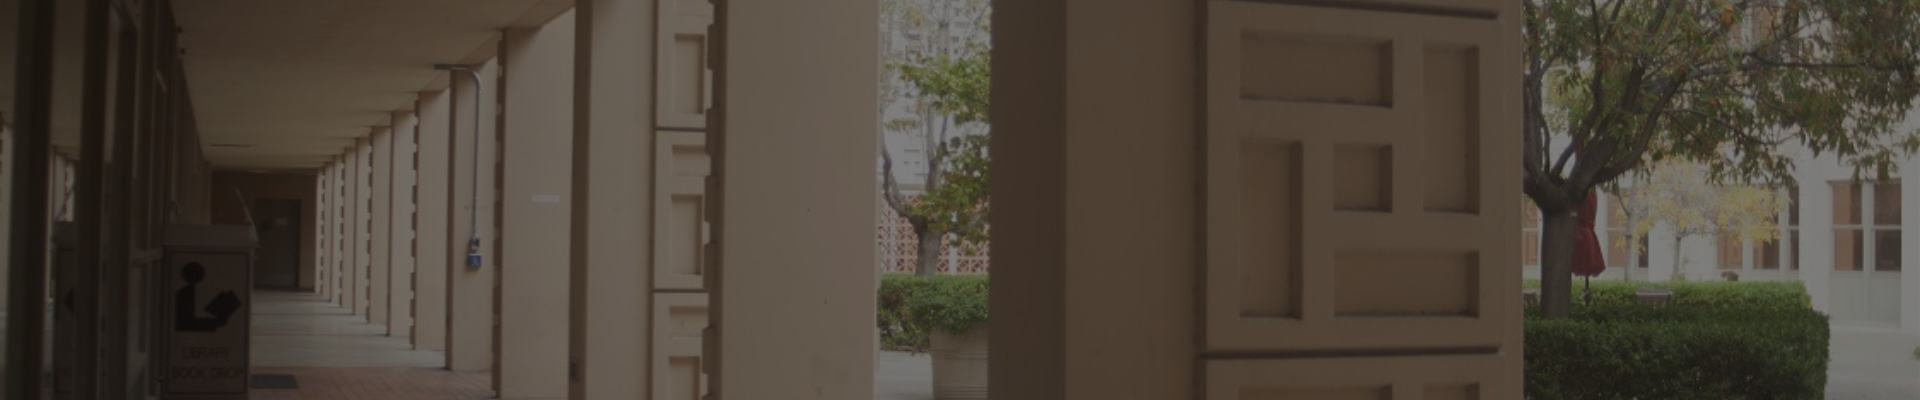
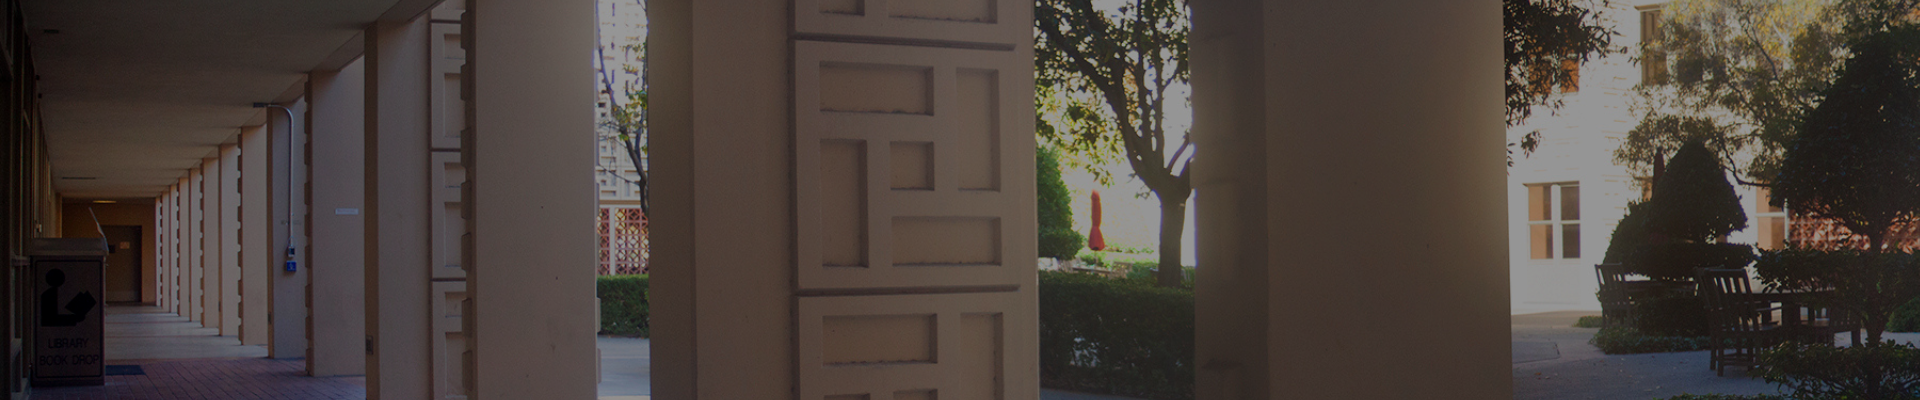
LANEWEB-10828: new hero image ... again

diff --git a/src/main/css/search-form.css b/src/main/css/search-form.css
@@ -1,10 +1,10 @@
 .hero-unit {
 	color: white;
 	background-color:  #8c1515;
-	background-image: url('../images/hero-bkgrd3.png'); 
+	background-image: url('../images/hero-bkgrd.png'); 
 	background-repeat: no-repeat;
 	background-size: cover;
-	background-position: center 70%;
+	background-position: center bottom;
 	width: 100%;
 	padding-top: 67px;
 	min-height: 204px;
@@ -238,8 +238,8 @@
 
 @media ( max-width : 812px) {
 	.hero-unit-front-page, .hero-unit {
-		padding-top: 30px;
-		padding-bottom: 30px;
+		padding-top: 85px;
+		background-position: unset;
 	}
 	.search-form {
 		width: 80%;
